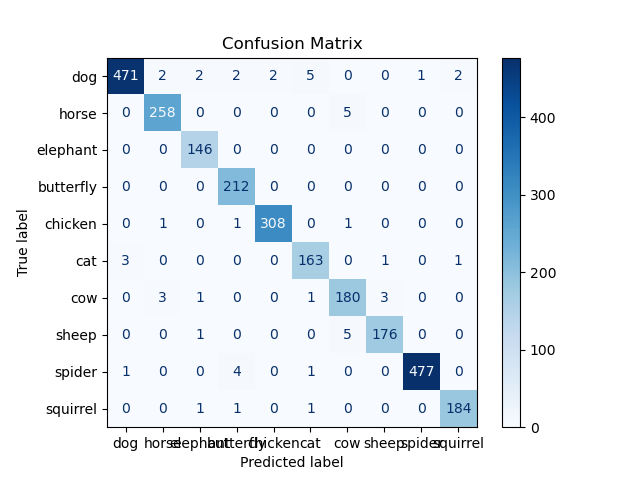
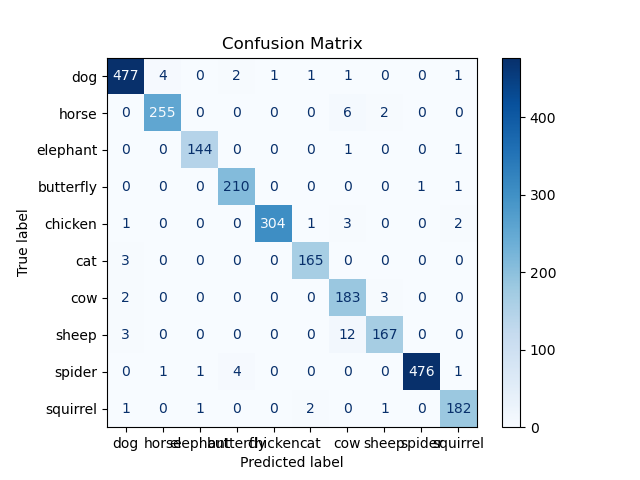
ResNet

diff --git a/resnet_lib.py b/resnet_lib.py
@@ -7,6 +7,9 @@ from pathlib import Path
 import pandas as pd
 from PIL import Image
 from sklearn.metrics import confusion_matrix, ConfusionMatrixDisplay
+from torchvision import models
+from tqdm import tqdm
+from torchvision.models import resnet50, ResNet50_Weights
 
 # 自动检测计算设备
 DEVICE = torch.device("cuda" if torch.cuda.is_available() else "cpu")
@@ -36,6 +39,18 @@ class AnimalsDataset(Dataset):
 
         # 筛选对应的数据集 (train/val/test)
         df = df[df["split"] == self.split].reset_index(drop=True)
+        #====== 子采样：每个类别最多取 N 张（仅用于训练集） ======
+        if self.split == "train":
+            max_per_class = 200
+
+            df = (
+                df.groupby("label", group_keys=False)
+                  .apply(lambda x: x.sample(
+                      n=min(len(x), max_per_class),
+                      random_state=42
+                  ))
+                  .reset_index(drop=True)
+        )
         self.paths = [self.root / p for p in df["path"].tolist()]
         self.labels = [self.classes_to_idx[c] for c in df["label"].tolist()]
 
@@ -92,39 +107,34 @@ def data_load(root):
     return data_class
 
 
-# 深度神经网络设计
-class CNN(nn.Module):
+# 使用ResNet深度神经网络
+# class ResNetClassifier(nn.Module):
+#     def __init__(self, num_classes):
+#         super(ResNetClassifier, self).__init__()
+#         # 加载 ResNet18 预训练模型
+#         self.backbone = models.resnet18(pretrained=True)
+#
+#         # 替换最后的全连接层
+#         in_features = self.backbone.fc.in_features
+#         self.backbone.fc = nn.Linear(in_features, num_classes)
+#
+#     def forward(self, x):
+#         return self.backbone(x)
+
+class ResNetClassifier(nn.Module):
     def __init__(self, num_classes):
-        super(CNN, self).__init__()
-        # 卷积层：提取图像特征
-        self.features = nn.Sequential(
-            # 卷积层1: 3通道输入 -> 16通道输出
-            nn.Conv2d(in_channels=3, out_channels=16, kernel_size=3, padding=1),
-            nn.ReLU(),
-            nn.MaxPool2d(kernel_size=2, stride=2),  # 224 -> 112
+        super(ResNetClassifier, self).__init__()
 
-            # 卷积层2: 16通道 -> 32通道
-            nn.Conv2d(in_channels=16, out_channels=32, kernel_size=3, padding=1),
-            nn.ReLU(),
-            nn.MaxPool2d(kernel_size=2, stride=2),  # 112 -> 56
+        # 使用最新 torchvision 权重接口
+        weights = ResNet50_Weights.DEFAULT
+        self.backbone = resnet50(weights=weights)
 
-            # 卷积层3: 32通道 -> 64通道
-            nn.Conv2d(in_channels=32, out_channels=64, kernel_size=3, padding=1),
-            nn.ReLU(),
-            nn.MaxPool2d(kernel_size=2, stride=2),  # 56 -> 28
-        )
-        # 全连接层：分类
-        self.classifier = nn.Sequential(
-            nn.Flatten(),  # 展平特征图：64 * 28 * 28
-            nn.Linear(64 * 28 * 28, 512),  # 隐藏层
-            nn.ReLU(),
-            nn.Linear(512, num_classes)  # 输出层：对应10个动物类别
-        )
+        # 替换分类头
+        in_features = self.backbone.fc.in_features  # 2048
+        self.backbone.fc = nn.Linear(in_features, num_classes)
 
     def forward(self, x):
-        x = self.features(x)
-        x = self.classifier(x)
-        return x
+        return self.backbone(x)
 
 
 # 准确率评估
@@ -181,16 +191,36 @@ def train_net(model, lr, num_epochs, train_loader, val_loader):
         # 训练过程
         model.train()
         total_loss = 0.0
-        for images, labels in train_loader:
-            # 前向传播
+        # for images, labels in train_loader:
+        #     images, labels = images.to(DEVICE), labels.to(DEVICE)
+        #     # 前向传播
+        #     logits = model(images)
+        #     # 误差计算
+        #     loss = criterion(logits, labels)
+        #     # 反向传播和参数更新
+        #     optimizer.zero_grad()
+        #     loss.backward()
+        #     optimizer.step()
+        #     total_loss += loss.item()
+        progress_bar = tqdm(
+            train_loader,
+            desc=f"Epoch [{epoch + 1}/{num_epochs}]",
+            leave=False
+        )
+
+        for images, labels in progress_bar:
+            images, labels = images.to(DEVICE), labels.to(DEVICE)
+
             logits = model(images)
-            # 误差计算
             loss = criterion(logits, labels)
-            # 反向传播和参数更新
+
             optimizer.zero_grad()
             loss.backward()
             optimizer.step()
+
             total_loss += loss.item()
+
+            progress_bar.set_postfix(loss=loss.item())
         print(f'第{epoch + 1}次循环:')
 
         # 训练损失统计
@@ -205,11 +235,11 @@ def train_net(model, lr, num_epochs, train_loader, val_loader):
 
         # 验证准确率统计+采用最简单的早停机制控制过拟合
         verify_acc = verify_net(model, val_loader)
-        if last_val_acc > verify_acc:
-            break
-        else:
-            last_val_acc = verify_acc
-            list_val_acc.append(verify_acc)
+        # if last_val_acc > verify_acc:
+        #     break
+        # else:
+        #     last_val_acc = verify_acc
+        #     list_val_acc.append(verify_acc)
 
     return model, list_train_acc, list_val_acc, list_train_loss
 
@@ -219,11 +249,26 @@ def plot_confusion_matrix(model, test_loader, class_names):
     model.eval()
     all_preds = []
     all_labels = []
+    # with torch.no_grad():
+    #     for inputs, labels in test_loader:
+    #         inputs, labels = inputs.to(DEVICE), labels.to(DEVICE)
+    #         outputs = model(inputs)
+    #         _, predicted = torch.max(outputs, 1)
+    #         all_preds.extend(predicted.cpu().numpy())
+    #         all_labels.extend(labels.cpu().numpy())
     with torch.no_grad():
-        for inputs, labels in test_loader:
+        progress_bar = tqdm(
+            test_loader,
+            desc="Testing",
+            leave=False
+        )
+
+        for inputs, labels in progress_bar:
             inputs, labels = inputs.to(DEVICE), labels.to(DEVICE)
+
             outputs = model(inputs)
             _, predicted = torch.max(outputs, 1)
+
             all_preds.extend(predicted.cpu().numpy())
             all_labels.extend(labels.cpu().numpy())
 
@@ -245,7 +290,7 @@ def test_net(model, test_loader, test_dataset):
 def main():
     # 数据导入
     print("数据开始导入。。。")
-    data_class = data_load("data/Animals-10")
+    data_class = data_load("Animals-10")
     train_loader = data_class["train_loader"]
     test_dataset = data_class["test_dataset"]
     val_loader = data_class["val_loader"]
@@ -254,13 +299,13 @@ def main():
 
     # 模型
     num_classes = 10
-    model = CNN(num_classes).to(DEVICE)
+    model = ResNetClassifier(num_classes).to(DEVICE)
 
     # 训练+验证
     print("训练开始。。。")
     # train_net(model, lr, num_epochs, train_loader, val_loader)
     # return model, list_train_acc, list_val_acc
-    trained_model, list_train_acc, list_val_acc, list_train_loss = train_net(model, 0.1, 10, train_loader, val_loader)
+    trained_model, list_train_acc, list_val_acc, list_train_loss = train_net(model, 0.1, 5, train_loader, val_loader)
     print("训练结束!\n")
 
     # 绘图
